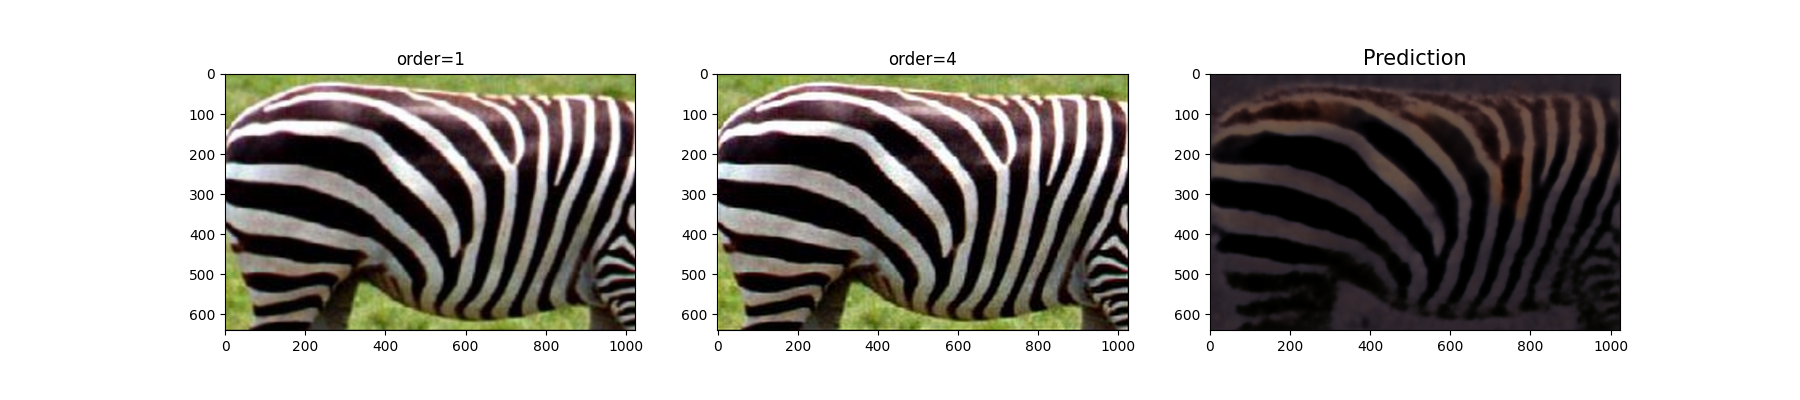
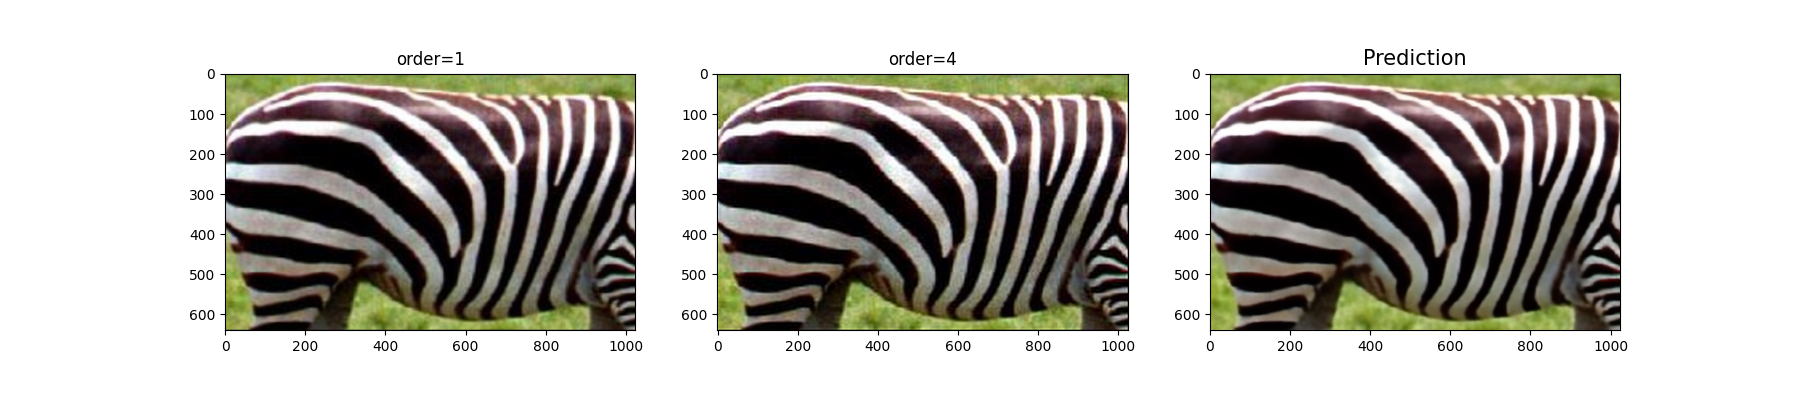
super

Changed region(s): [[0.6533, 0.18, 0.9022, 0.84]]

diff --git a/sample.py b/sample.py
@@ -59,7 +59,8 @@ class downsample(nn.Module):
                 m = 2 * n + 1
                 kernel[i: factor-i, i: factor-i] *= m
             kernel /= torch.sum(kernel)
-        res[:, :] = kernel
+        for i in range(input_channels):
+            res[i, i] = kernel
         return res
     
     def forward(self, x):
